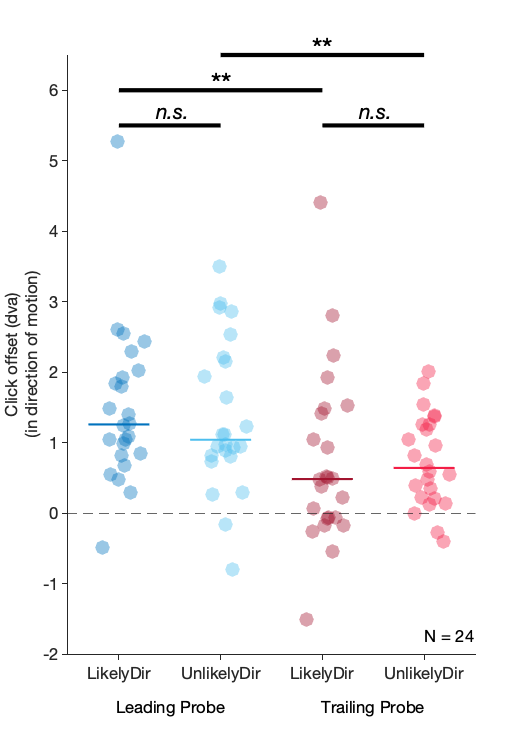
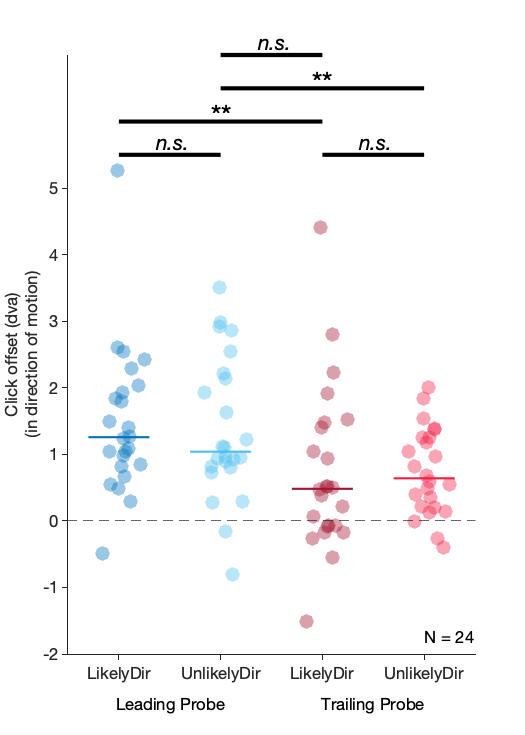
local changes

diff --git a/analysis/cyc04_task01_pop_analysis_all.m b/analysis/cyc04_task01_pop_analysis_all.m
@@ -78,7 +78,7 @@ legend_vec = {'LikelyDir', 'UnlikelyDir', 'LikelyDir', 'UnlikelyDir'};
 
 xticks_vec = 1:4;
 xticklabels_vec = legend_vec;
-yticks_vec = -2:6;
+yticks_vec = -2:5;
 
 x = 1:4;
 
@@ -90,7 +90,7 @@ xlim([xticks_vec(1)-.5,xticks_vec(end)+.5])
 
 ylabel({'Click offset (dva)', '(in direction of motion)'})
 yticks(yticks_vec)
-ylim([-2 6.5])
+ylim([-2 7])
 yline(0,'--')
 
 % title 'All'
@@ -119,6 +119,10 @@ delta,W,z,p,r)
 fprintf('<Trailing Probe; Likely vs Unlikely> md = %4.1f dva, W = %5d, z = %5.2f, p = %5.3f, r = %4.2f \n', ...
 delta,W,z,p,r)
 
+[delta, p, W, z, r] = signrank_full(y(:,2),y(:,3));
+fprintf('<Motion driven att. vs Pre-allocated att.> md = %4.1f dva, W = %5d, z = %5.2f, p = %5.3f, r = %4.2f \n', ...
+delta,W,z,p,r)
+
 %% add stats to figure
 lw = 2;
 
@@ -133,6 +137,9 @@ text(2, 6.1, '**','HorizontalAlignment','center','FontSize',14)
 
 line([2 4],[6.5 6.5],'linewidth',lw,'color','k')
 text(3, 6.6, '**','HorizontalAlignment','center','FontSize',14)
+
+line([2 3],[7 7],'linewidth',lw,'color','k')
+text(2.5, 7.2, '\it n.s.','HorizontalAlignment','center')
 
 %% save figure
 saveas(gcf, '../result/cyc04_task01_pop24.png')
